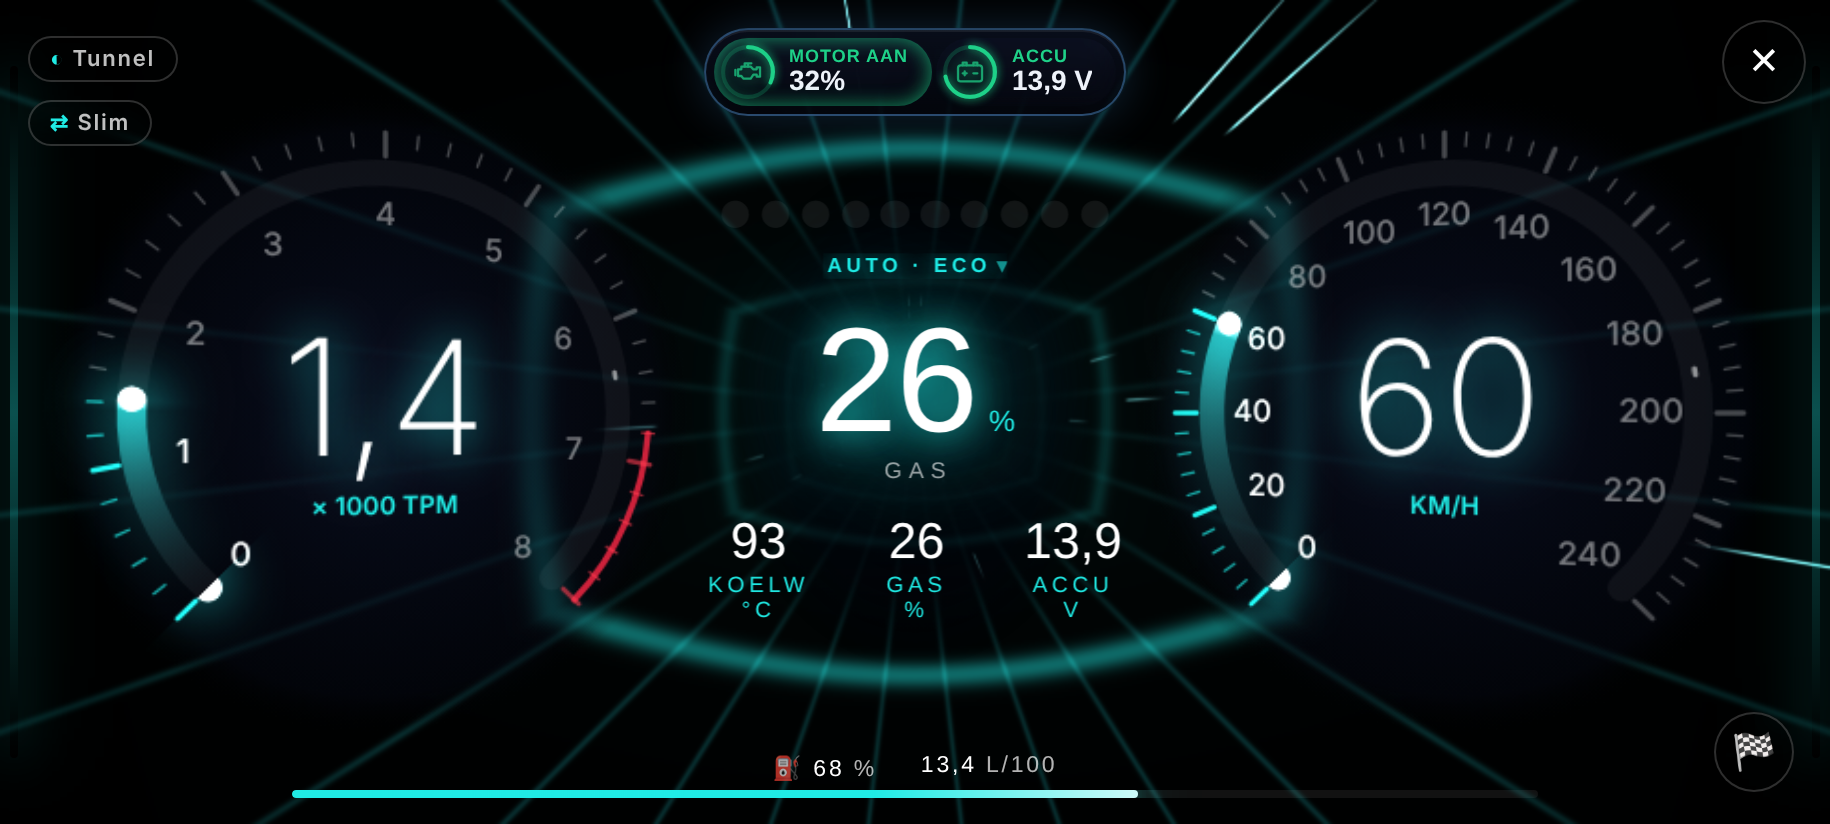
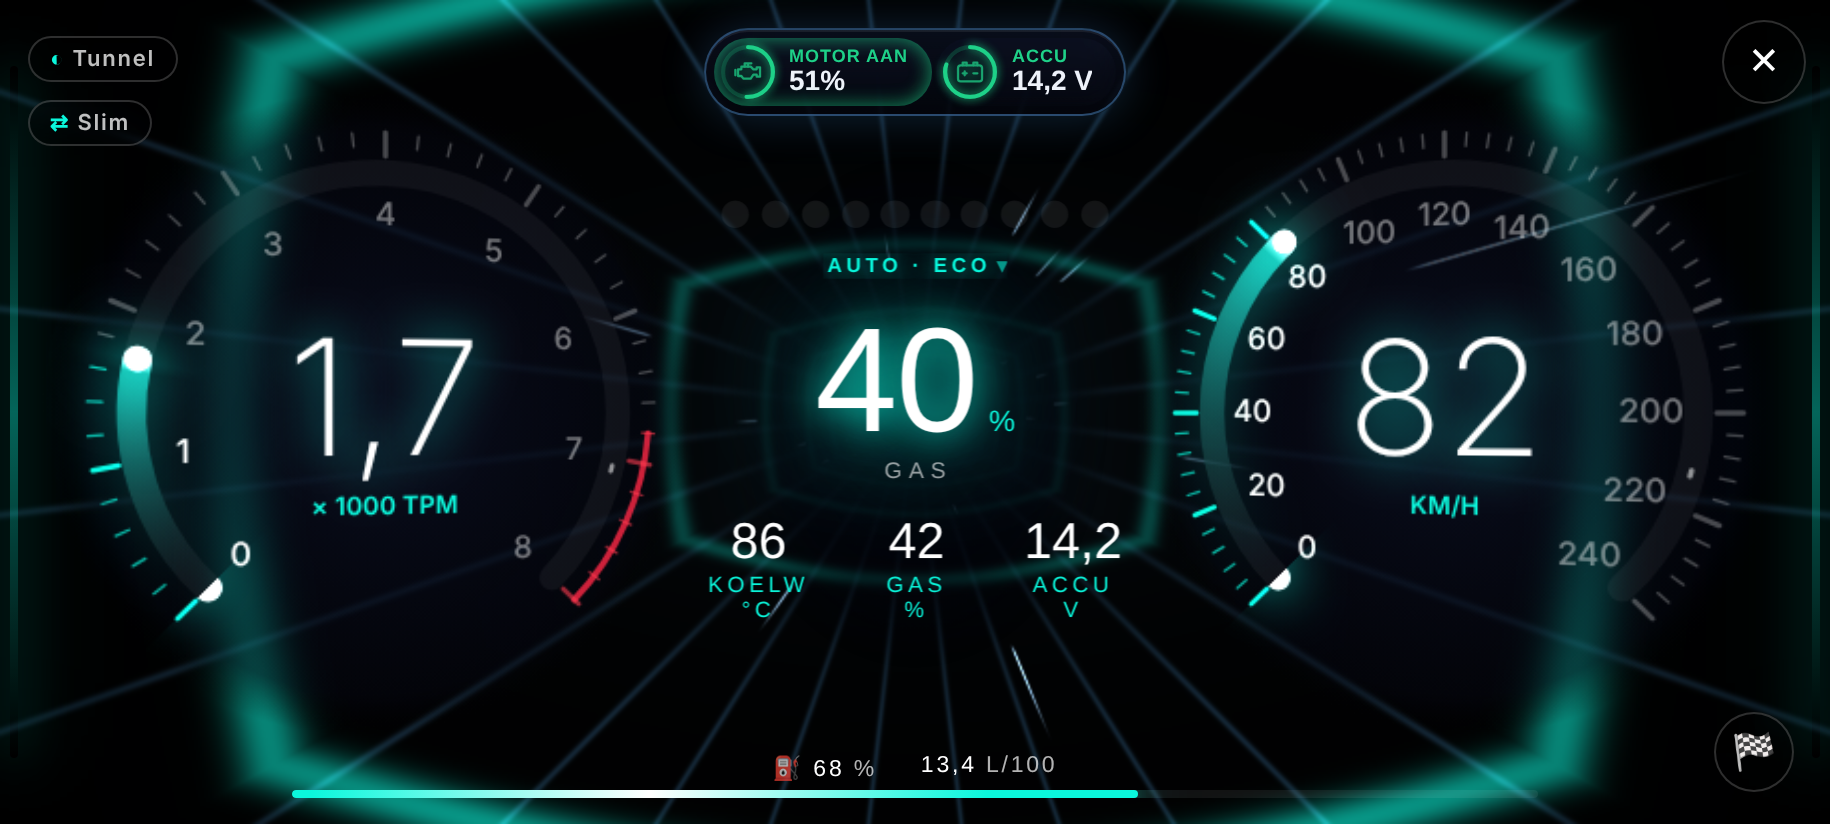
Play-beelden opnieuw opgenomen uit 3.6.0: Hyperlane staand, nieuwe uitsnede voor de standen
Claude-Session: https://claude.ai/code/session_01UqhcqmteaTerPaFTUztdUo

diff --git a/marketing/play/schermen.html b/marketing/play/schermen.html
@@ -57,7 +57,7 @@ const SCHERMEN = [
   { vorm:'liggend', kop:'Je auto, zoals je hem <em>nog nooit</em> zag', sub:'Hyperlane: een lichttunnel die meestroomt met je snelheid. Toeren, snelheid en verbruik live.', chip:'Live uit je eigen auto', ac:'#1fd189', beeld:[['hyperlane-liggend.png',0]] },
   { vorm:'staand', kop:'Je monteur kijkt <em>live mee</em>', sub:'Deel een code. Hij ziet wat jouw auto nu meet, waar hij ook is. Alleen lezen.', ac:'#4fd6f0', beeld:[['delen.png',1100,730],['meekijken.png',230,1190]], top:640 },
   { vorm:'staand', kop:'Lampje aan? <em>Weet het</em> in 30 seconden', sub:'Foutcodes en keuringsstatus, met uitleg in gewone taal en wat je nu doet.', ac:'#ff5a6a', beeld:[['check.png',40,1130]] },
-  { vorm:'staand', kop:'Kies je stand: <em>Eco, Sport</em> of Cruise', sub:'Per stand de sensoren die ertoe doen. Of laat Auto vanzelf meeschakelen.', ac:'#4fd6f0', beeld:[['visueel-stand.png',220,580]] },
+  { vorm:'staand', kop:'Kies je stand: <em>Eco, Sport</em> of Cruise', sub:'Per stand de sensoren die ertoe doen. Of laat Auto vanzelf meeschakelen.', ac:'#4fd6f0', beeld:[['visueel-stand.png',220,1150]] },
   { vorm:'staand', kop:'Alleen wat er <em>nu toe doet</em>', sub:'Slim kiest de sensoren bij wat je auto op dit moment doet, met het normale bereik erbij.', ac:'#4d82ff', beeld:[['slim.png',90]] },
   { vorm:'staand', kop:'Zie het <em>verloop</em>, niet één moment', sub:'Grafieken met het normale bereik als groene band. Afwijkingen springen eruit.', ac:'#4d82ff', beeld:[['grafiek.png',220,1200]] },
   { vorm:'staand', kop:'Weet hoe je <em>accu</em> ervoor staat', sub:'Laadspanning, startdip en trend. Vóór je in de kou met een lege accu staat.', ac:'#1fd189', beeld:[['accu.png',0,1080]] },

diff --git a/PLAY-INZENDING.md b/PLAY-INZENDING.md
@@ -198,7 +198,8 @@ Vragen: support@pidlane.nl
 
 ## 4. Grafisch materiaal
 
-**Sinds 02-11-2026 staat alles in de repo**, in `marketing/play/uit/`. Bron:
+**Sinds 02-11-2026 staat alles in de repo**, in `marketing/play/uit/`; opnieuw
+opgenomen op 24-11-2026 voor 3.6.0 (Hyperlane staand vult nu het scherm). Bron:
 `marketing/play/opname.js` neemt de echte app op in demomodus (de
 meekijkschermen komen uit `marketing/meekijken/opname.js`), `schermen.html` en
 `grafiek.html` zetten er een kop en lijst omheen, `render.js` maakt de PNG's.
